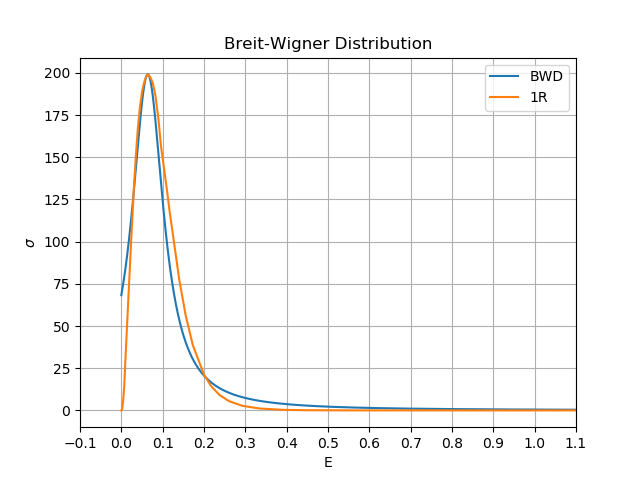
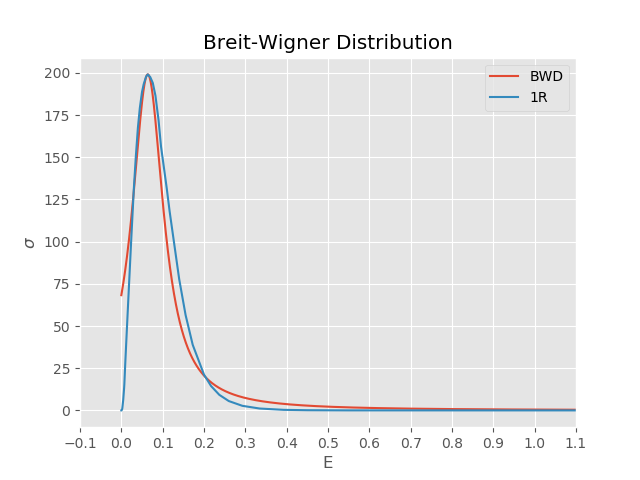
Fri Apr  3 22:12:48 IST 2020

diff --git a/prp.py b/prp.py
@@ -5,6 +5,8 @@ import numpy as np
 import pandas as pd
 import tensorflow as tf
 
+plt.style.use('ggplot')
+
 
 def ievsig() -> None:
     df = pd.read_csv('plot_final.csv')
